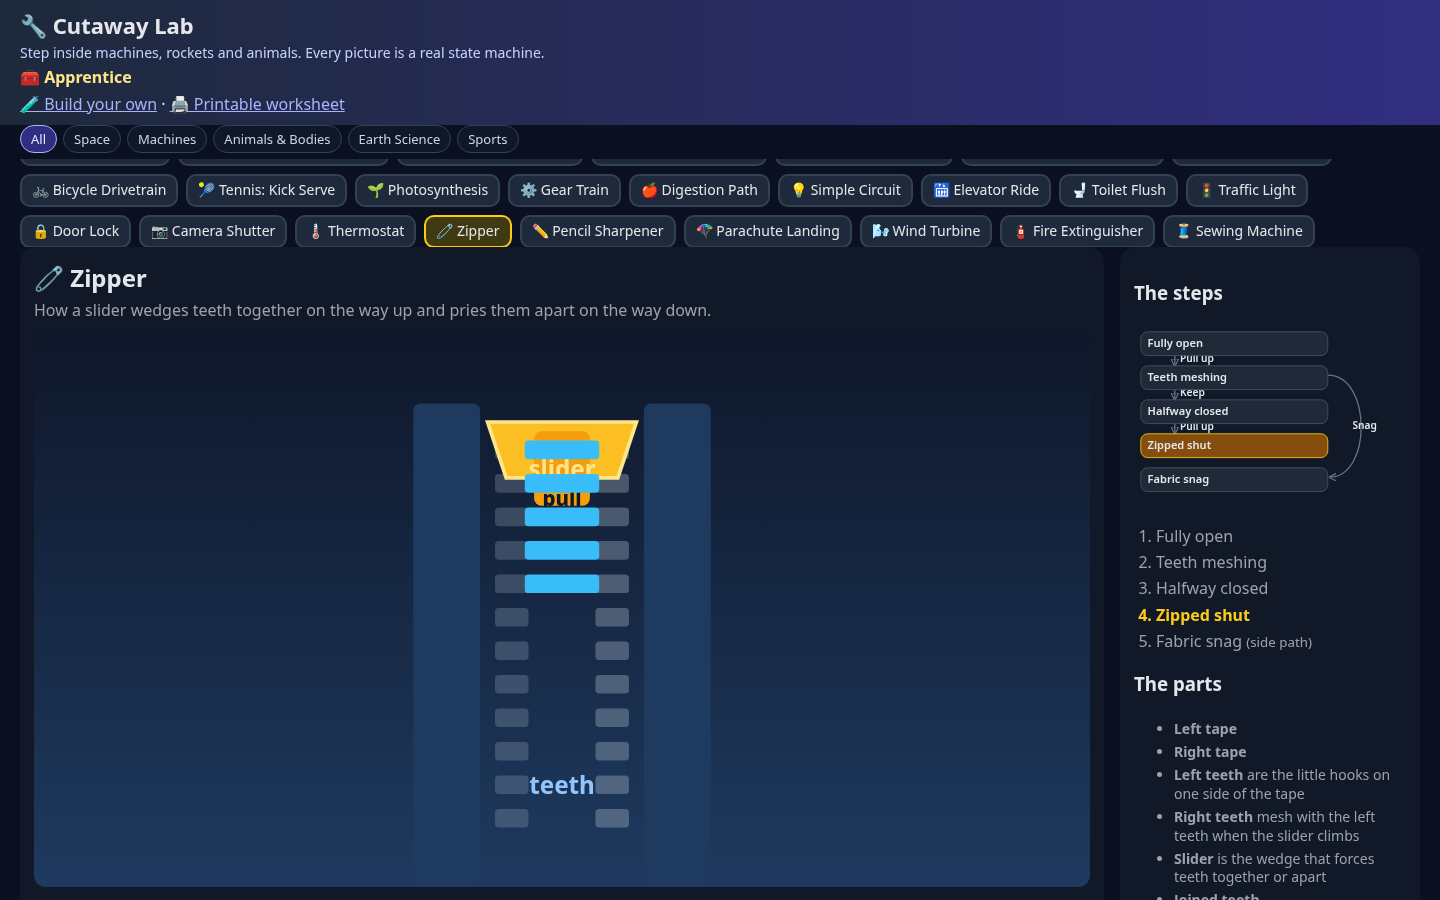
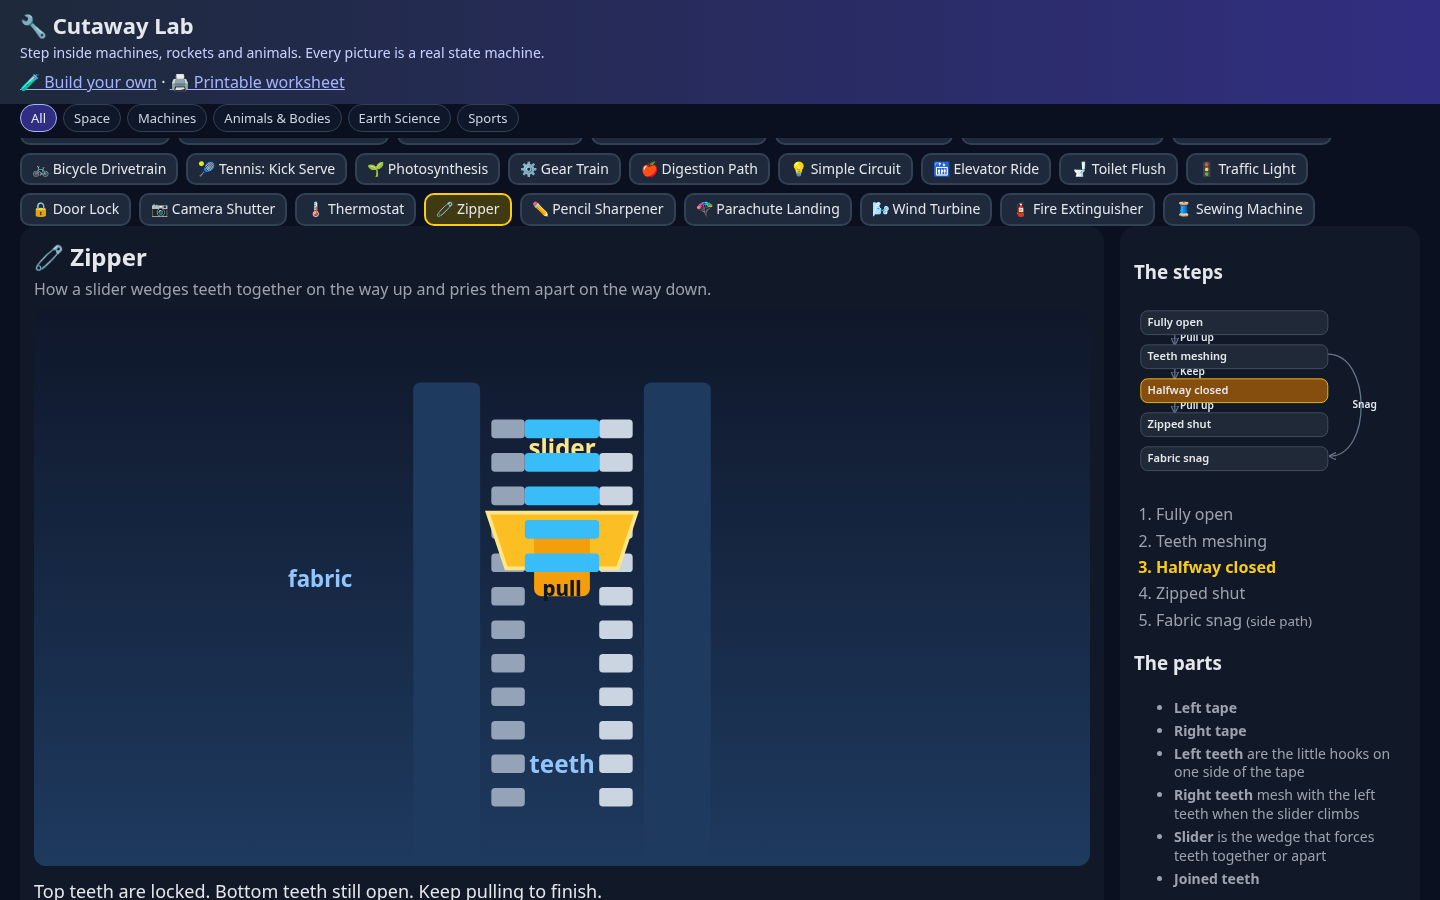
v1.0: zipper fabric caption on the tape

diff --git a/machines/zipper.js b/machines/zipper.js
@@ -5,6 +5,8 @@ export default {
   parts: [
     { id: 'tapeL', label: 'Left tape',
       svg: '<rect x="120" y="40" width="36" height="260" rx="4" fill="#1e3a5f"/>' },
+    { id: 'lblFabric', label: 'Fabric label',
+      svg: '<text x="70" y="150" text-anchor="middle" fill="#93c5fd" font-size="12" font-weight="700">fabric</text>' },
     { id: 'tapeR', label: 'Right tape',
       svg: '<rect x="244" y="40" width="36" height="260" rx="4" fill="#1e3a5f"/>' },
     { id: 'teethL', label: 'Left teeth', job: 'are the little hooks on one side of the tape',
